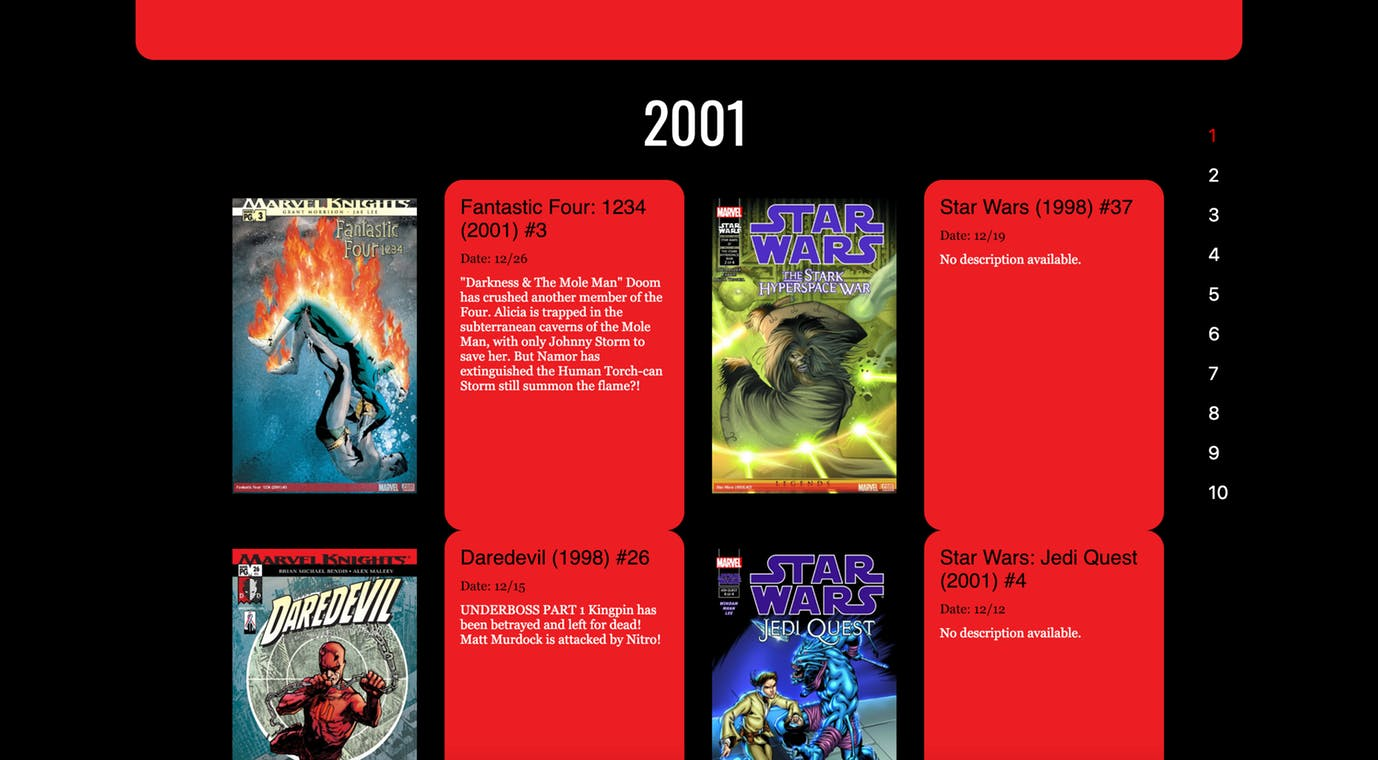
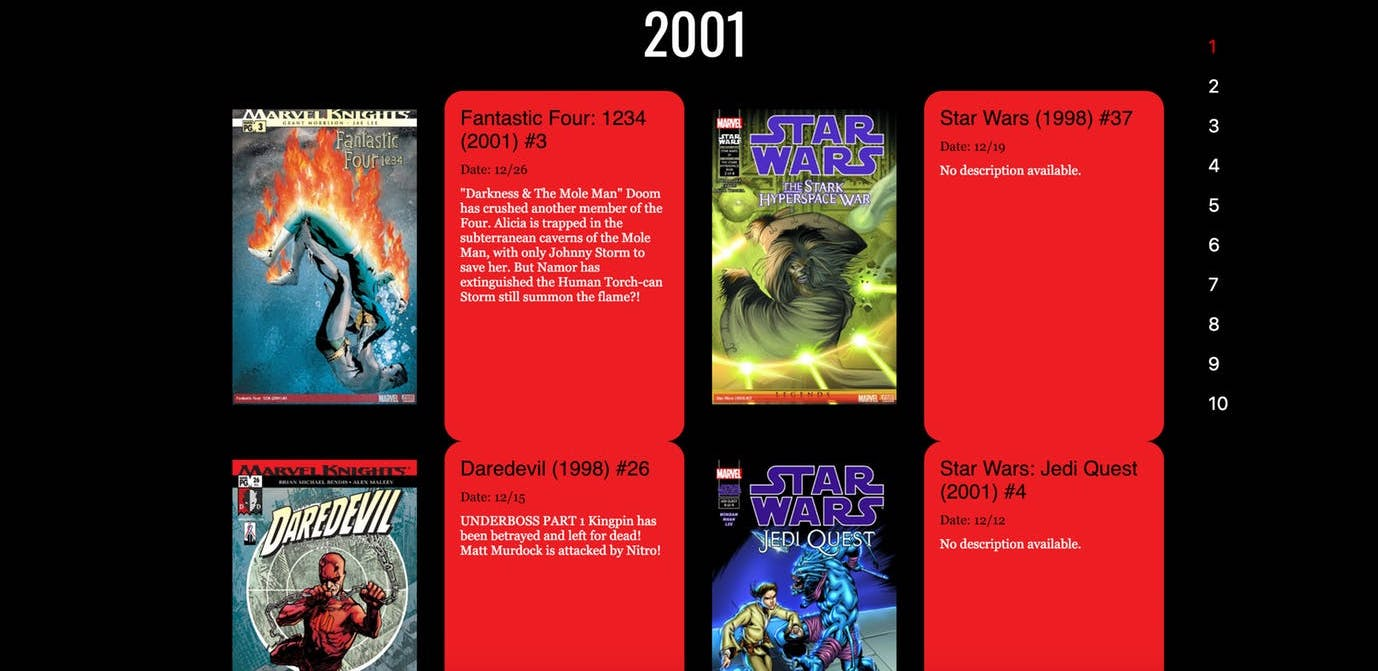
changed image sizes

diff --git a/index.html b/index.html
@@ -17,7 +17,6 @@ title: Anupya Pamidimukkala
 <script type="text/javascript" src="/assets/js/jcarousel.ajax.js"></script>
 
 
-
 <nav>
     <div id="menu">
 	    <ul id="menu-list">
@@ -127,7 +126,7 @@ title: Anupya Pamidimukkala
 		  		</div>
 	  		</div> 
 	  		<div class="solo-item">
-		  		<img src="/assets/images/dadjoke-cli.jpeg">
+		  		<img src="/assets/images/dadjoke-cli.png">
 		  		<a href="https://www.producthunt.com/posts/dad-joke-cli" target="_blank">
 		  		<div class="overlay">
 		  			
@@ -360,6 +359,5 @@ title: Anupya Pamidimukkala
         </div>
     </section>
 </div>
-
 <br><br><br><br><br><br><br><br><br><br><br><br><br><br><br><br><br><br><br><br><br><br><br>
 

diff --git a/css/main.css b/css/main.css
@@ -10,8 +10,10 @@
     justify-content: center;
     flex-wrap: wrap;
     cursor: default;
+    display: flex;
 
 }
+
 /* HEADERS AND FOOTERS */
 h1 {
     position: absolute;
